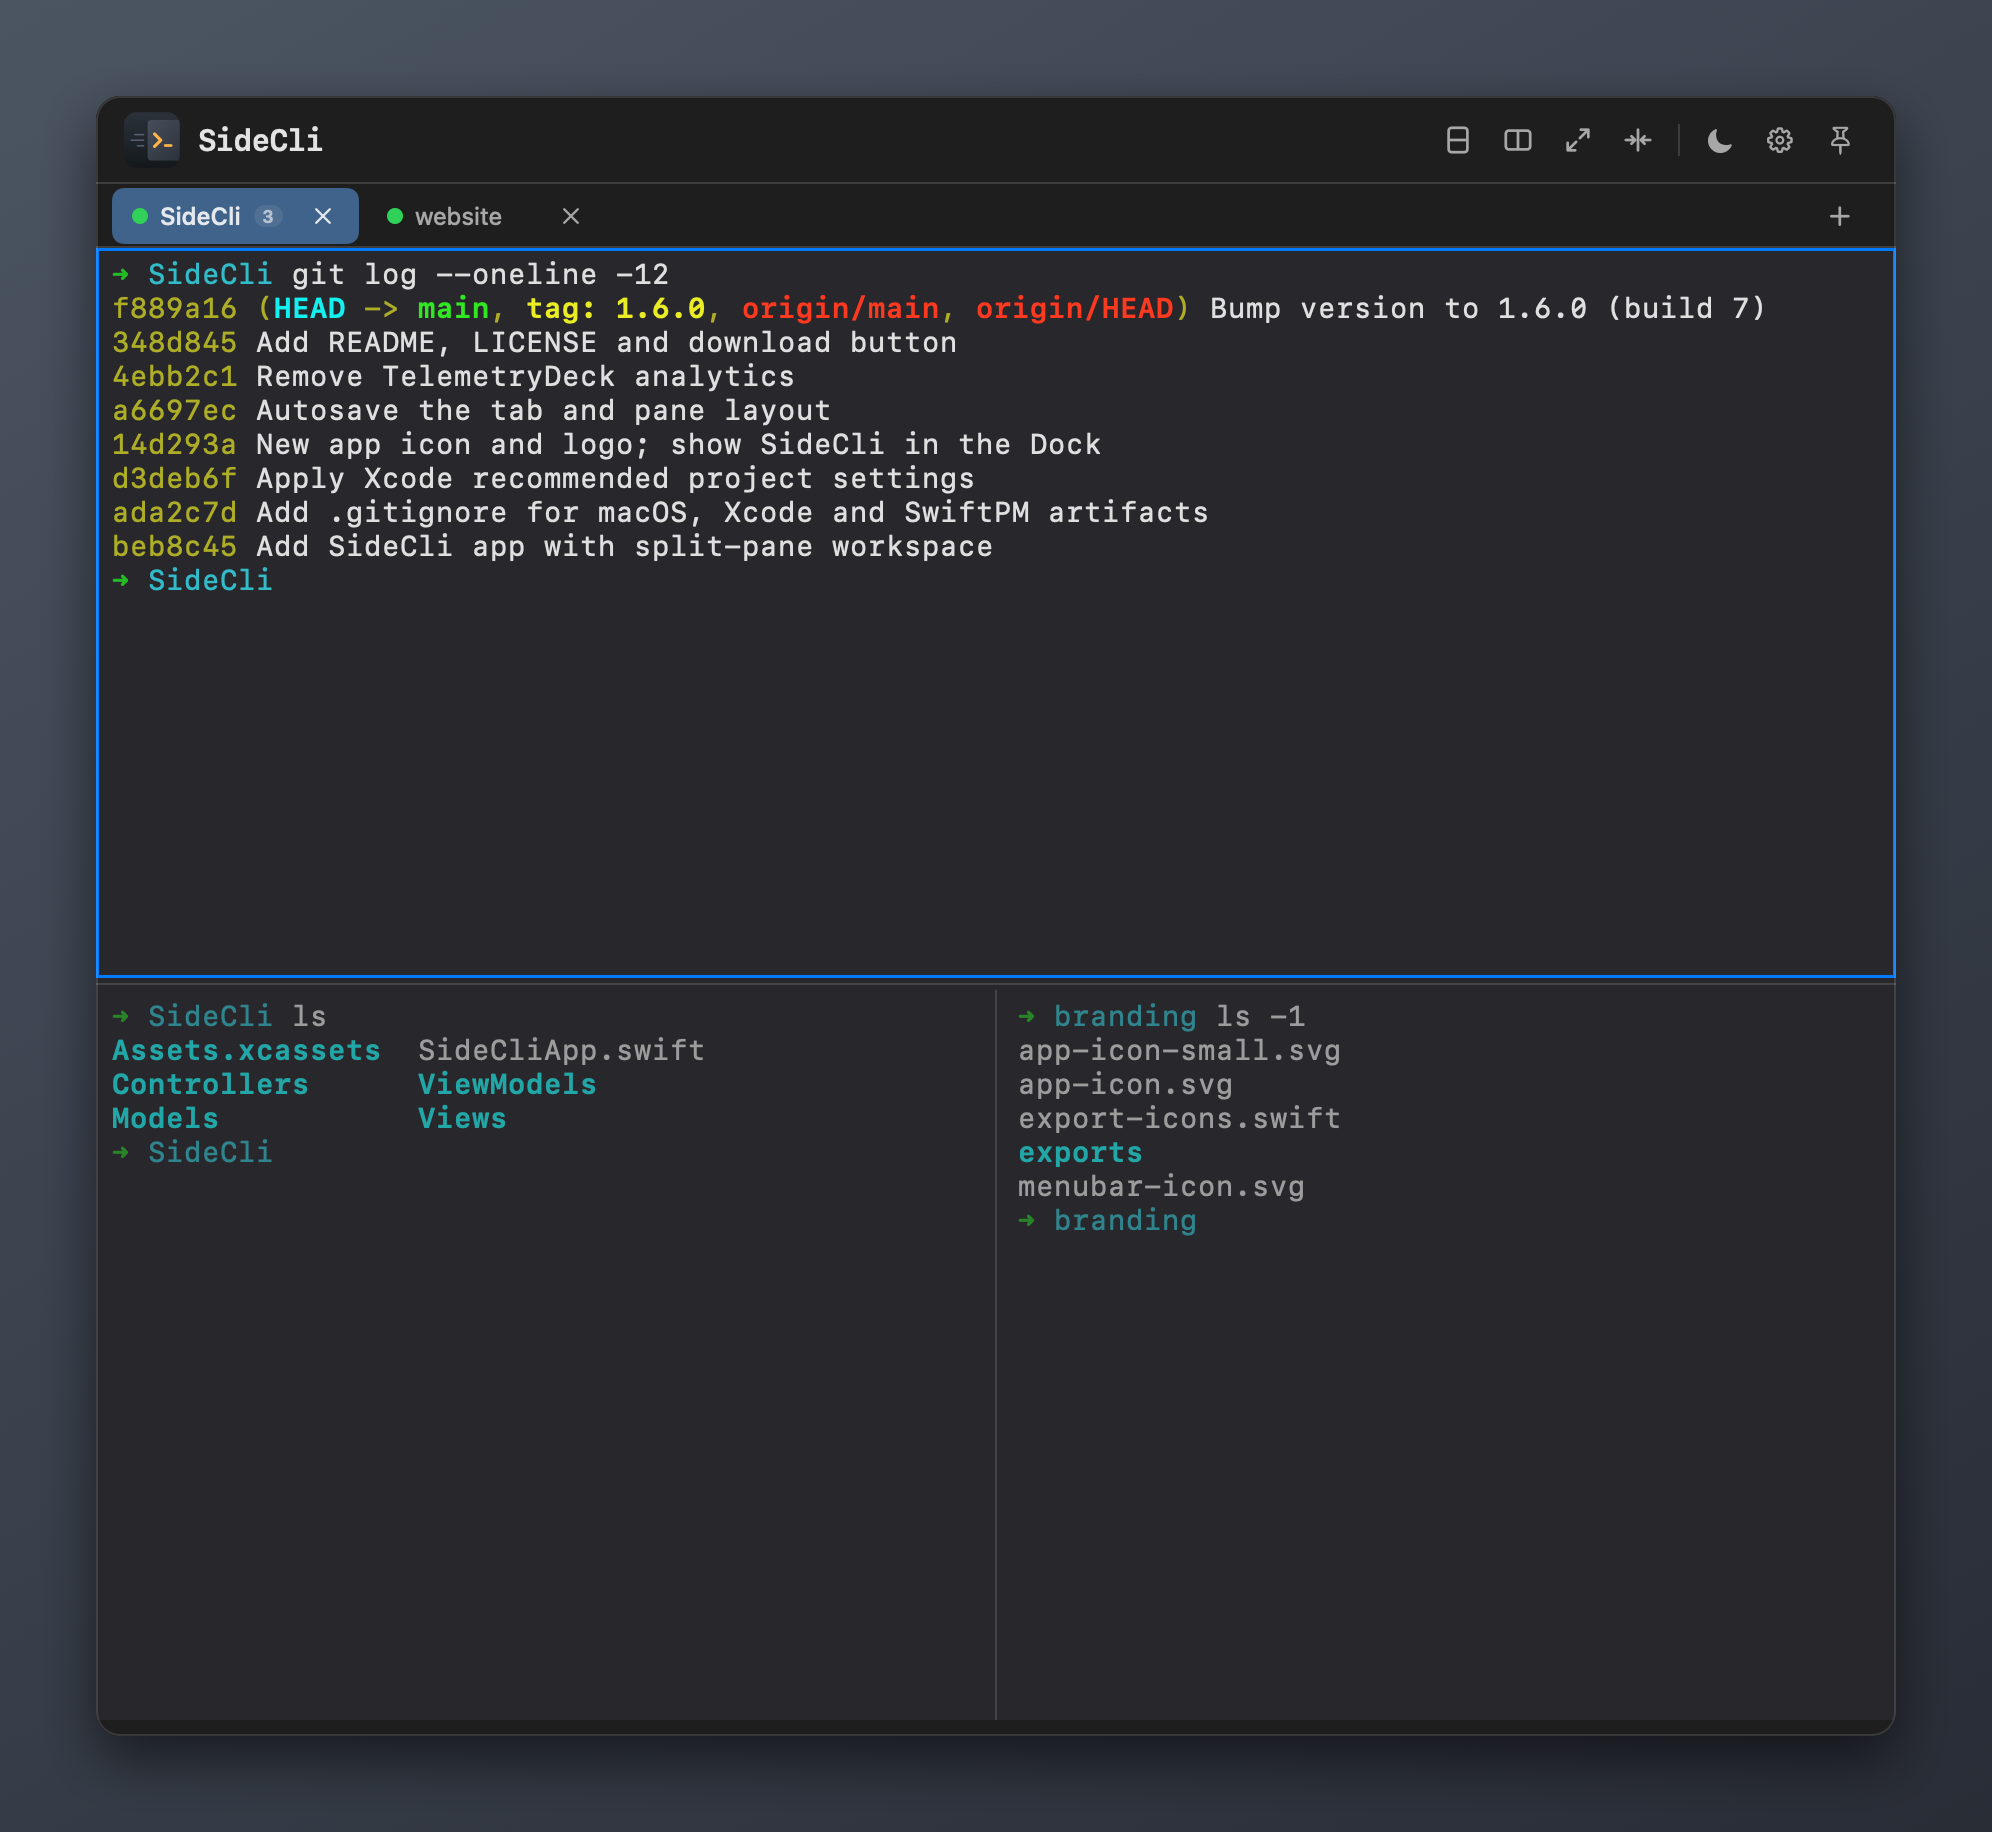
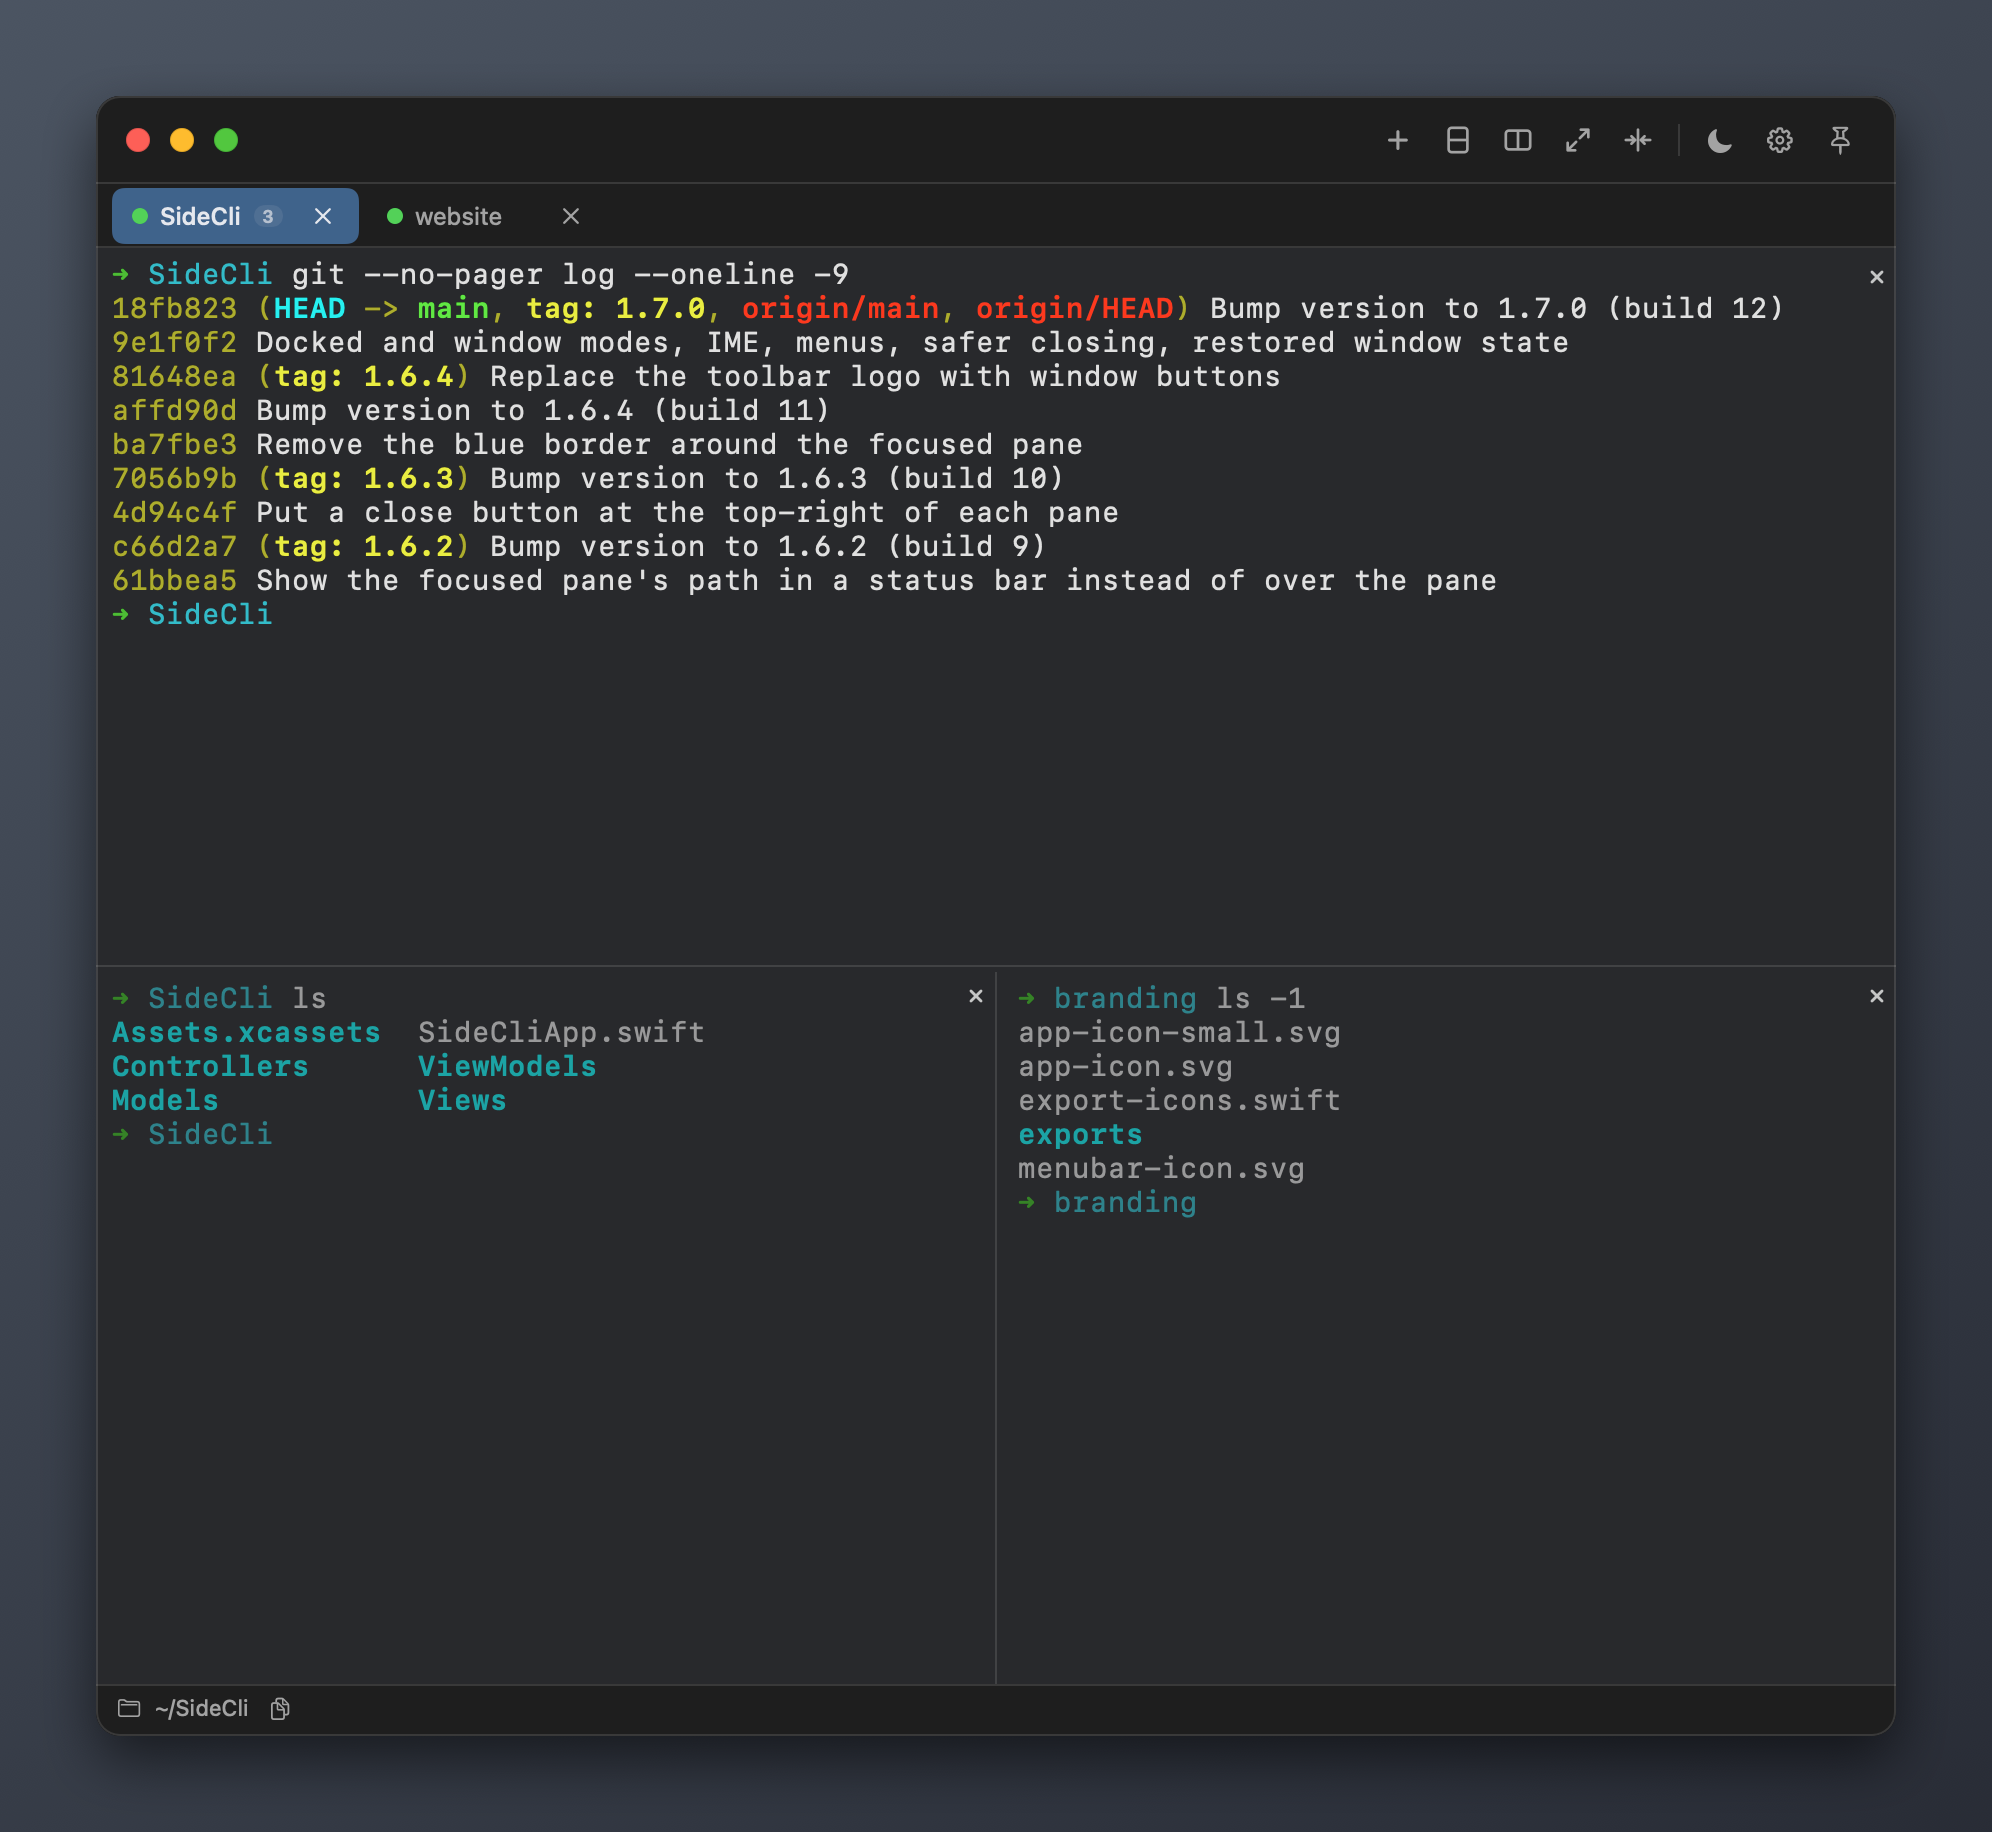
Update README and screenshots for 1.7.0

diff --git a/README.md b/README.md
@@ -4,21 +4,29 @@ SideCli is a lightweight macOS terminal that lives on the edge of your screen:
 
 - Snaps to the left or right screen edge and auto-hides to save space
 - Slides out when the mouse reaches the edge, or with a global shortcut
+- Drag it away from the edge and it is a regular window instead
 - Native terminal rendering powered by SwiftTerm
 - Shows in the menu bar and the Dock
 
 <p align="center">
-  <img src="docs/screenshots/sidecli-dark.png" alt="SideCli in the dark theme: one tab split into three panes running git log and ls, with a second tab open" width="49%">
-  <img src="docs/screenshots/sidecli-light.png" alt="SideCli in the light theme: a tab split top and bottom, with the focused pane outlined" width="49%">
+  <img src="docs/screenshots/sidecli-dark.png" alt="SideCli in the dark theme: one tab split into three panes running git log and ls, with a second tab open; the panes that don't have focus are dimmed" width="49%">
+  <img src="docs/screenshots/sidecli-light.png" alt="SideCli in the light theme: a tab split top and bottom; the focused pane stays bright and the other is dimmed" width="49%">
 </p>
 
 ## Features
 
+- Two modes: docked to a screen edge it floats above other apps and auto-hides; dragged away from the edge (or filling the screen) it is a regular window that other apps can cover
 - Tabs, each with its own split panes: split top/bottom or left/right and nest freely
 - `⌘D` picks the split direction with more room; panes keep a usable minimum size
 - Zoom a pane to fill the panel, equalize panes, move focus between panes from the keyboard
 - The panel widens automatically for left/right splits and shrinks back when they close
-- Tabs, panes, ratios and working directories are saved continuously and restored on launch
+- Tabs, panes, ratios and working directories are saved continuously and restored on launch, together with the window's mode, position and size
+- Window buttons like any Mac window: hide, minimize to the Dock, fill the screen; double-click the toolbar to fill the screen too
+- Asks before closing a pane or tab, or quitting, while a program is still running in it; `exit` closes the pane, and a shell that exits with an error can be restarted with Return
+- Full-screen programs (vim, AI coding CLIs, …) redraw correctly after every split, zoom and resize
+- Input methods (Chinese, Japanese, Korean, …) show the text being composed at the cursor
+- Paste a screenshot or a file from Finder to insert its path
+- A menu bar listing every command and its shortcut
 - Configurable global shortcut, dark/light theme, font size, English/Chinese interface
 - First-run welcome screen and quick tour
 - No analytics or usage data collection
@@ -33,7 +41,12 @@ SideCli is a lightweight macOS terminal that lives on the edge of your screen:
 | Split the other way | `⌘⇧D` |
 | Zoom / restore pane | `⌘⇧↩` |
 | Move between panes | `⌘⌥←` `⌘⌥→` `⌘⌥↑` `⌘⌥↓` |
-| Font size | `⌘=` / `⌘-` |
+| Go to tab 1–8 / last tab | `⌘1` … `⌘8` / `⌘9` |
+| Next / previous tab | `⌘⇧]` / `⌘⇧[` |
+| Clear screen and scrollback | `⌘K` |
+| Font size / default size | `⌘=` / `⌘-` / `⌘0` |
+| Settings | `⌘,` |
+| Hide / minimize panel | `⌘H` / `⌘M` |
 | Show / hide panel (default, configurable) | ``⌘` `` |
 
 ## Requirements
